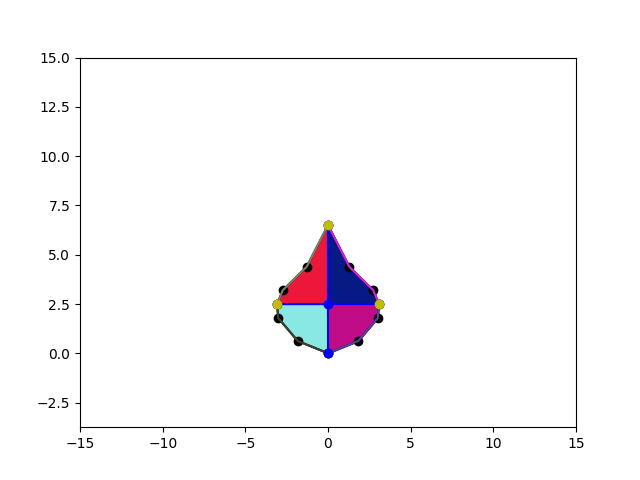
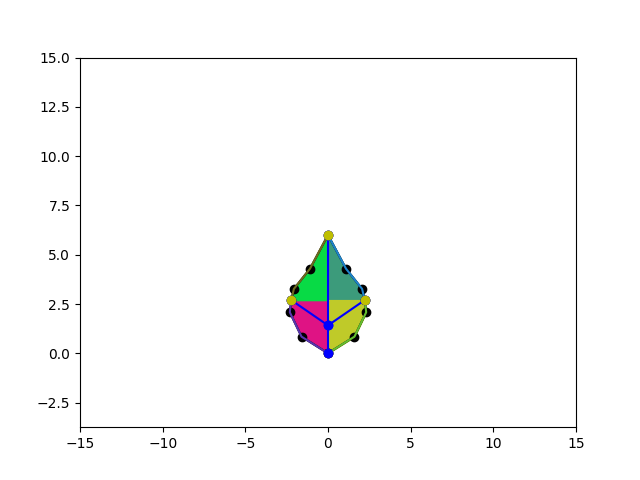
pre-meeting commit

Changed region(s): [[0.4062, 0.4375, 0.625, 0.75]]

diff --git a/Prototype1/growth.py b/Prototype1/growth.py
@@ -1,5 +1,6 @@
 import numpy as np
 from sklearn.metrics.pairwise import euclidean_distances
+from math import tan
 from scipy.interpolate import interp1d
 from leafstructure import Point, Vein, Margin, Leaf
 
@@ -10,6 +11,11 @@ def normalize_vec(vec):
     """Normalizes a directional vector"""
     norm_vec = vec / np.sqrt((vec ** 2).sum())
     return norm_vec
+
+def get_magnitude(vec):
+    """Get the magnitude of a vector"""
+    mag = np.sqrt(vec.dot(vec))
+    return mag
 
 def normalize_to_range(vec, old_range, fit_range):
     """Normalizes a vector to a given range. as adapted from sklearn:
@@ -211,22 +217,26 @@ def introduce_new_cp(leaf, cp_th, interpolation):
     return 1
 
 
-def find_optimal_angle(segment, kv):
-    """Finds the optimal vein angle by applying cos-1(kv/km)"""
-
-    theta = np.arccos(kv/1)
-
-    return theta
-
-
-def create_anchor_point(cp, vein_assoc):
+def create_anchor_point(cp, vein_assoc, theta):
     """draws a perpendicular line to the given vein.
     Later this can be done with a theta adjustment."""
-    # find anchor point
     vein = vein_assoc[-1]
-    anchor = vector_projection(cp.pos, vein.get_vector())
-    anchor_pt = Point(anchor.tolist(), 0, vein_assoc, 0, 0)
+    if theta == 0:
+        anchor_pos = vein.start_point.pos
+    else:
+        # find orthogonal point by vector projection
+        orthogonal_pt = vector_projection(cp.pos, vein.get_vector())
+        if theta == 1:
+            anchor_pos =  orthogonal_pt.to_list()
+        else:
+            # TODO! check if the orthogonal side is correct!
+            orthogonal_side = get_magnitude(orthogonal_pt - np.array(cp.pos))
+            dir = -1 * normalize_vec(vein.get_vector())
+            offset = orthogonal_side / tan(theta)
+            # TODO! check if types are correct!
+            anchor_pos = orthogonal_pt + dir * offset
 
+    anchor_pt = Point(anchor_pos, 0, vein_assoc, 0, 0)
     # add anchor point to corresponding vein
     vein.insert_point(anchor_pt)
 
@@ -236,7 +246,7 @@ def create_anchor_point(cp, vein_assoc):
 def vein_addition(leaf, kv):
     """Connects unconnected Cp's with vein and adds new vein to leaf."""
     segments = leaf.define_segments()
-    # theta_anchor_pt = find_optimal_angle(segment, kv)
+    km = 1
 
     # print(f"segments: {segments}")
 
@@ -248,20 +258,15 @@ def vein_addition(leaf, kv):
             continue
         else:
             # create new vein
-            # TODO! replace create_anchor_point by find_optimal_angle etc
-            print(f"cp.vein_assoc:, {len(cp.vein_assoc), cp.vein_assoc}")
-            anchor_pt = create_anchor_point(cp, cp.vein_assoc)
+            theta = np.arccos(kv / km)
+            print(f"theta: {theta}")
+            anchor_pt = create_anchor_point(cp, cp.vein_assoc, theta)
             new_vein = Vein([anchor_pt, cp], anchor_pt, cp)
             print(f"new_vein:, {new_vein}")
             # add vein to vein assoc
             anchor_pt.has_vein = 1
             cp.connect_to_new_vein(new_vein)
             cp.has_vein = 1
-
             # add vein to leaf
             leaf.add_vein(new_vein)
-            print(f"cp.vein_assoc:, {len(cp.vein_assoc), cp.vein_assoc}")
-            print(f"leaf.all_veins:, {len(leaf.all_veins), leaf.all_veins}")
-
-
     return leaf

diff --git a/Prototype1/Main.py b/Prototype1/Main.py
@@ -3,11 +3,11 @@ import visualization as vis
 from growth import *
 import matplotlib.pyplot as plt
 
-STEPS = 15 #simulation steps
-INTERPOLATION = 3 #number of points to interpolate between margin points (min 1)
-GR = 0.3
-CP_TH = 6.5
-KV = 1 #vasculatory auxin movement rate
+STEPS = 30 #simulation steps
+INTERPOLATION = 2 #number of points to interpolate between margin points (min 1)
+GR = 0.2 #growth rate
+CP_TH = 7 #threshold distance for cp creation
+KV = 0.5 #vasculatory auxin movement rate
 LEAF_PATH = "../img/plot_data/" #where to save plot data
 BASE_NAME = "leaf_" #base name of plots
 

diff --git a/Prototype1/flowchart.py b/Prototype1/flowchart.py
@@ -1,0 +1,12 @@
+from growth import *
+from pyflowchart import Flowchart
+
+with open('Main.py') as f:
+        code = f.read()
+
+fc = Flowchart.from_code(code, field='', inner=True, simplify=True)
+print(fc.flowchart())
+
+
+
+
